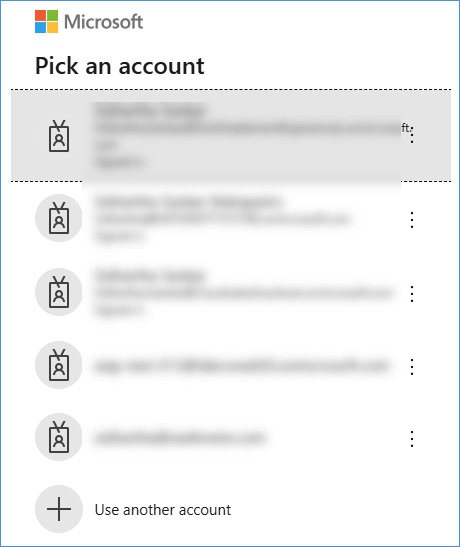
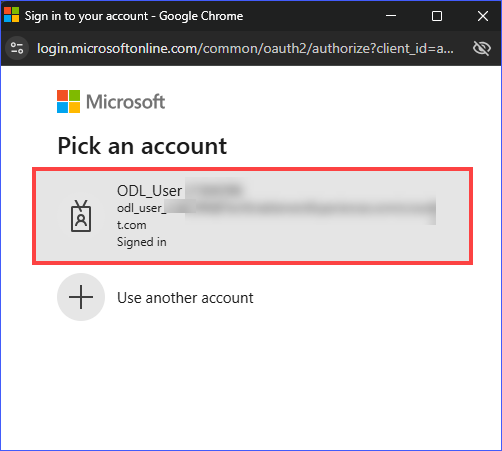
commit

diff --git a/Lab/Lab 1- Building Fabric IQ/Exercise5-Create Operations Agent (Fabric IQ).md b/Lab/Lab 1- Building Fabric IQ/Exercise5-Create Operations Agent (Fabric IQ).md
@@ -20,11 +20,11 @@ To address this need, EVA enhances the data model with:
 
 ## Task 5.1: Create Operations Agent (Fabric IQ)
 1. Select Fabric Workspace and click **New Item**.
-2. In the search box type **Opertion** keyword to get Operation Agent. Click **Operation Agent**.
+2. In the search box type **Operation** keyword to get Operation Agent. Click **Operation Agent**.
 
     ![Choose OperationAgent](../media/ChooseOperationAgent.png)
 
-3. New popup window will apear. Provide Operation Agent name and select workspace in the Location section. Click **Create**.
+3. New popup window will apear. Provide Operation Agent name: **Retail_OperationAgent** and select workspace in the Location section. Click **Create**.
 
     ![Choose OperationAgent](../media/NewOperationAgent.png)
 
@@ -93,7 +93,7 @@ To address this need, EVA enhances the data model with:
 
 11. Click **Save** button to generate **Agent playbook**. 
 
-    > Please click "Playbook" button if it need explicit click to generate Agent playbook.
+    >**Note:** Please click on **"Generate Playbook"** button if it need explicit click to generate Agent playbook.
 
     ![OpeationAgentSave](../media/OpeationAgentSave.png)
 
@@ -104,9 +104,11 @@ To address this need, EVA enhances the data model with:
 12. After few moment, Agent playbook will be generated with all its step by step action details.
 
     **Playbook - Business glossary & Objects**
-        ![Paybook-I](../media/Paybook-I.png)
+
+    ![Paybook-I](../media/Paybook-I.png)
 
     **Playbook - Properties and Rules**
+
     ![Paybook-II](../media/Paybook-II.png)
 
 13. Read the **Agent playbook** and start the **Operation Agent** if all instructions are correct.
@@ -118,58 +120,73 @@ To address this need, EVA enhances the data model with:
 
     ![ActionCreation](../media/ActionCreation.png)
 
-2. Now action creation popup will appear to include **action name** and **copy the below description** (It's mandatory and any short description you can provide). Also, user can pass parameter for explicit specification while taking action. Click **Create** to create custom action.
+2. Now action creation popup will appear to include action name: **Inventory_Action** and **copy the below description** (It's mandatory and any short description you can provide). Also, user can pass parameter for explicit specification while taking action. Click **Create** to create custom action.
 
     ![CreatingAction](../media/CreatingAction.png)
-```
-Inventory action is a custom action. While action required. Activator will trigger this action to send message/email to the authorized operation team.
-```
+
+    ```
+    Inventory action is a custom action. While action required. Activator will trigger this action to send message/email to the authorized operation team.
+    ```
 
 4. Now, custom action will be created for operation agent.
 
-    ![ActionCreated](../media/ActionCreated.png)
+5. Configure Custom Action - Activator Setup. Follow the steps below to configure the activator for your custom action:
+    - In the Workspace dropdown, select **<inject key= "WorkspaceName" enableCopy="false"/>**.
+    - Under Activator, choose Create a new item.
+    - In the New item name field, enter **Inventory_Activator**.
+    - Click on **Create activator** to complete the setup.
 
-5. Action need to configure **Custom Action**. User need to click **Connect** for configuration.
+        >**Note:** Ensure the correct workspace is selected before creating the activator.
 
-6. In custom action configuration pan, user need to choose **Workspace**, **Activator** (if not available, select and click **New activator**). 
+        ![ActionCreated](../media/customitem.png)
 
-    ![ActionConfiguration](../media/ActionConfiguration.png)
+6. In custom action configuration pane, user need to choose **Workspace**, **Activator** (if not available, select and click **New activator**). 
 
-   - Click **Create a connection** button to get connection details for activator.
+    - Click **Create a connection** button to get connection details for activator.
    - After the connection is created, copy the connection string and save at safe place.
    - Click **Open flow builder** to open the PowerAutomate flow in a separate browser tab.
+
+        ![ActionConfiguration](../media/ActionConfiguration.png)
+
 7. User can see 2nd tab for PowerAutomate in the browser window.
+
+    >**Note:** If any pop-up appears, click **Get Started** and proceed without further action.
+
     ![Different Tab PowerAutomate](../media/DifferentTabPowerAutomate.png)
 
 8. In the PowerAutomate flow page, click **Activator** action to open its properties page.
     - Paste the connection string which was copied.
-    - Sign in to the account for proper authorization if not connected.
+    - Click on the **Change connection** button.
 
-    ![PowerAutomateActivatorSetting](../media/PowerAutomateActivatorSetting.png)
+        ![PowerAutomateActivatorSetting](../media/PowerAutomateActivatorSetting.png)
 
-9. Only the activator will not work here. so use should add output action.
+9. To add a new connection, since no active connection exists, click on **Add New**.
 
-10. Click "'+'" (available below activator action) to insert new action.
+    ![PowerAutomate](../media/newconnect.png)
 
-    ![NewItemPowerAutomate](../media/NewItemPowerAutomate.png)
+10. Click on **Sign in** to authenticate and create a new connection to Data Activator.
 
-11. In action selection pan, please search **Team** to establich Team Chat. Click **See all** to visualize all actions for Team.
+    ![PowerAutomate](../media/signin.png)
 
-    ![FindTeamAction](../media/FindTeamAction.png)
-
-12. Select **Get messages in chat** from the list. This will help the **Activator** action to post messages in teams.
-
-    ![GetMessageChat](../media/GetMessageChat.png)
-
-13. The User needs to authorize Teams by providing an account for message communication.
-
-    ![SignInAccountForTeam](../media/SignInAccountForTeam.png)
-
-14. Click **Sign in** to authorize account. It will ask the account. User need to select account.
+11. Select your account to proceed with the **sign-in**. If your account is not listed, click on **Use another account**.
 
     ![SelectingAccount](../media/SelectingAccount.png)
 
-15. Now configuration required for posting team message. Configure if property window open by default at left side or click action to open.
+12. Only the activator will not work here. so the user should add output action.
+
+13. Click "'+'" (available below activator action) to insert new action.
+
+    ![NewItemPowerAutomate](../media/NewItemPowerAutomate.png)
+
+14. In action selection pan, please search **Team** to establich Team Chat. Click **See all** to visualize all actions for Team.
+
+    ![FindTeamAction](../media/FindTeamAction.png)
+
+15. Select **Post messages in a chat or channel** from the list. This will help the **Activator** action to post messages in teams.
+
+    ![GetMessageChat](../media/GetMessageChat.png)
+
+16. Now configuration required for posting team message. Configure if property window open by default at left side or click action to open.
 
     ![TeamPostConfiguration](../media/TeamPostConfiguration.png)    
 
@@ -179,33 +196,33 @@ Inventory action is a custom action. While action required. Activator will trigg
     - Message - I have provided static message. We can create cutomize and dynamic message based on parameters.
     - Autorization - Sign in account if not there.
 
-16. Click **Save** to save the flow activity. We can see successful message in the banner.
+17. Click **Save** to save the flow activity. We can see successful message in the banner.
 
     ![SaveFlow](../media/SaveFlow.png) 
 
-17. Select Fabric tab in the browser to see the Operation agent screen. Now **Apply** button will be enable.
+18. Select Fabric tab in the browser to see the Operation agent screen. Now **Apply** button will be enable.
     >Apply button will enable once flow saved successfully.
 
-18. Click **Apply** button to save Custom Action.
+19. Click **Apply** button to save Custom Action.
 
     ![SavingCustomAction](../media/SavingCustomAction.png)     
 
-19. Click **Save** button again in Operation Agent to generate Playbook.
+20. Click **Save** button again in Operation Agent to generate Playbook.
 
-20. Start the Operation Agent once Playbook generated successfully.
+21. Start the Operation Agent once Playbook generated successfully.
 
-21. Now we can see **Team** message sent by Operation Agent when we find any anomaly. 
+22. Now we can see **Team** message sent by Operation Agent when we find any anomaly. 
     - For example : you can refer below image
 
     ![FabricOA-TeamMessage](../media/FabricOA-TeamMessage.png)   
 
-22. To take action, we can click **Yes/No**. Click **Yes** to activate trigger and send message to respective team.
+23. To take action, we can click **Yes/No**. Click **Yes** to activate trigger and send message to respective team.
 
-23. Activator will acknowledge with below message. 
+24. Activator will acknowledge with below message. 
      - For example : you can refer below image
 
     ![ActivatorSuccessMessage](../media/ActivatorSuccessMessage.png)  
 
-24. After action taken by operation team, workflow will send confirmation message back.
+25. After action taken by operation team, workflow will send confirmation message back.
 
     ![WorkflowMessage](../media/WorkflowMessage.png)  

diff --git a/Lab/Lab 1- Building Fabric IQ/Exercise3-Create Ontology.md b/Lab/Lab 1- Building Fabric IQ/Exercise3-Create Ontology.md
@@ -55,6 +55,8 @@ This marks a breakthrough moment in transitioning from structured data to busine
 
 3. Click **Add data items** and select **From OneLake catalog** to open OneLake ares.
 
+    >**Note**: If the **+ Add data items** option is not visible (as shown in the screenshot), it may be due to an existing or unknown data source. In that case, scroll down and select **+ Add data items** from the **Data Items** section below.
+
     ![ChooseOneLake](../media/ChooseOneLake.png) 
 
 4. Select above created Lakehosue and click **Add** to include in the notebook execution.
@@ -62,6 +64,8 @@ This marks a breakthrough moment in transitioning from structured data to busine
     ![LakehouseSelection](../media/LakehouseSelection.png) 
 
 5. Now, selected **Lakehouse** will be binded with Notebook.
+
+    >**Note**: Set the **<inject key= "Lakehouse" enableCopy="false"/>** as the default for the notebook. To do this, hover over the lakehouse, click on the **... (three dots)** menu, and select **Set as default lakehouse**.
 
     ![BindLakehouse](../media/BindLakehouse.png) 
 
@@ -71,11 +75,11 @@ This marks a breakthrough moment in transitioning from structured data to busine
 
    ![Configuration](../media/Configuration.png) 
 
-    - ontology_item_name: `Provide Ontology Name(Unique)`
-    - binding_lakehouse_name: `Lakehouse name created in last exercise`
-    - binding_eventhouse_name: `Eventhouse name created in last exercise`
+    - ontology_item_name: `Retail_Ontology`
+    - binding_lakehouse_name:**<inject key= "Lakehouse" enableCopy="true"/>**
+    - binding_eventhouse_name: `Retail_EventHouse`
     - binding_eventhouse_cluster_uri: `Query URI copied from last exercise`
-    - binding_eventhouse_database_name: `Database name from Eventhouse`
+    - binding_eventhouse_database_name: `Retail_EventHouse`
 
 8. After configuration, click **Run all** button at top banner and execute entire notebook cell by cell.
     - First cell will install .whl file to execute all refrerenced files.
@@ -92,10 +96,19 @@ This marks a breakthrough moment in transitioning from structured data to busine
 11. Click **Ontology**. It will redirect to a different page to see its details.
 
     ![OntologyArea](../media/OntologyArea.png) 
-    > 
-    - Left area will hold all the entities binded from Lakehouse and Eventhouse
-    - Middle area wll provide relational view of each selected entity.
-    - Right area will show its properties and binding details.
+
+    >- Left area will hold all the entities binded from Lakehouse and Eventhouse
+    >- Middle area wll provide relational view of each selected entity.
+    >- Right area will show its properties and binding details.
+
+
+11. Click **Properties** from right side configuration area to see all attributes details binded from Lakehosue(Static) and Eventhouse(Timeseries)
+
+    ![PropertiesView](../media/PropertiesView.png) 
+
+12. Click **Bindings** to validate both statis and timeseries data binding.
+
+    ![BindingView](../media/BindingView.png) 
 
 ## Task 3.2: Ontology Validation
 1. To validate each entities and its detials, please select any. In below case, I have selected Product.
@@ -108,12 +121,5 @@ This marks a breakthrough moment in transitioning from structured data to busine
 
     ![GraphView](../media/GraphView.png) 
 
-4. Click **Properties** from right side configuration area to see all attributes details binded from Lakehosue(Static) and Eventhouse(Timeseries)
-
-    ![PropertiesView](../media/PropertiesView.png) 
-
-5. Click **Bindings** to validate both statis and timeseries data binding.
-
-    ![BindingView](../media/BindingView.png) 
 
     > Please validate attribute details which were provision for static and timeseries.

diff --git a/Lab/Lab 1- Building Fabric IQ/Exercise4-Creating a Data Agent with Ontology.md b/Lab/Lab 1- Building Fabric IQ/Exercise4-Creating a Data Agent with Ontology.md
@@ -32,13 +32,13 @@ Instead of writing complex SQL queries, Serena interacts directly with a **Fabri
 
     ![datasource](../media/datasource.png)
 
-2. Choose the Ontology created in the previous lab, then click on **Add** and verify that the ontology is successfully attached.
+2. Choose the **Retail_Ontology** created in the previous lab, then click on **Add** and verify that the ontology is successfully attached.
 
     ![Dataaddition](../media/Dataaddition.png)
 
-> **Note:**  
-> - The Ontology acts as a semantic layer, helping the Data Agent understand the data context.  
-> - Ensure the correct ontology is selected to get accurate insights.
+    > **Note:**  
+    > - The Ontology acts as a semantic layer, helping the Data Agent understand the data context.  
+    > - Ensure the correct ontology is selected to get accurate insights.
 
 ## Task 4.2: Validate the data agent using natural language queries
 
@@ -124,6 +124,8 @@ Instead of writing complex SQL queries, Serena interacts directly with a **Fabri
 
 4. After entering the instructions, click on **Publish** to save the configuration.
 
+    >**Note**: In the **Publish Data Agent** pop-up, click the**Publish** Button.
+
     ![agentpublish](../media/agentpublish.png)
 
 5. After adding the instructions, click on the **close (✕) icon** on the **Agent instructions** tab to exit the window.
@@ -146,6 +148,7 @@ Instead of writing complex SQL queries, Serena interacts directly with a **Fabri
    - Provides insights in a readable format  
 
 10. Try multiple queries and refine your questions to explore additional insights.
+
      ```
      - Which products are frequently returned and impacting revenue?
      - Which regions are underperforming in sales?
@@ -153,7 +156,7 @@ Instead of writing complex SQL queries, Serena interacts directly with a **Fabri
      - Which stores have the highest number of orders?
      ```
 
-> **Note:**  
-> - Clear and specific questions provide more accurate results.  
-> - Responses may vary depending on how the question is framed.  
-> - The Data Agent uses the Ontology to translate natural language into meaningful queries.
+    > **Note:**  
+    > - Clear and specific questions provide more accurate results.  
+    > - Responses may vary depending on how the question is framed.  
+    > - The Data Agent uses the Ontology to translate natural language into meaningful queries.

diff --git a/Lab/Lab 1- Building Fabric IQ/Exercise2-Generate Ontology Data.md b/Lab/Lab 1- Building Fabric IQ/Exercise2-Generate Ontology Data.md
@@ -202,7 +202,9 @@ To address this need, EVA enhances the data model with:
 
     ![NotebookwithoutLakehouse](../media/NotebookwithoutLakehouse.png) 
 
-3. Click **Add data items** and select **From OneLake catalog** to open OneLake ares.
+3. Click **+ Add data items** and select **From OneLake catalog** to open OneLake ares.
+
+    >**Note**: If the **+ Add data items** option is not visible (as shown in the screenshot), it may be due to an existing or unknown data source. In that case, scroll down and select **+ Add data items** from the **Data Items** section below.
 
     ![ChooseOneLake](../media/ChooseOneLake.png) 
 
@@ -211,6 +213,8 @@ To address this need, EVA enhances the data model with:
     ![LakehouseSelection](../media/LakehouseSelection.png) 
 
 5. Now, selected **Lakehouse** will be binded with Notebook.
+
+    >**Note**: Set the **<inject key= "Lakehouse" enableCopy="false"/>** as the default for the notebook. To do this, hover over the lakehouse, click on the **... (three dots)** menu, and select **Set as default lakehouse**.
 
     ![BindLakehouse](../media/BindLakehouse.png) 
 
